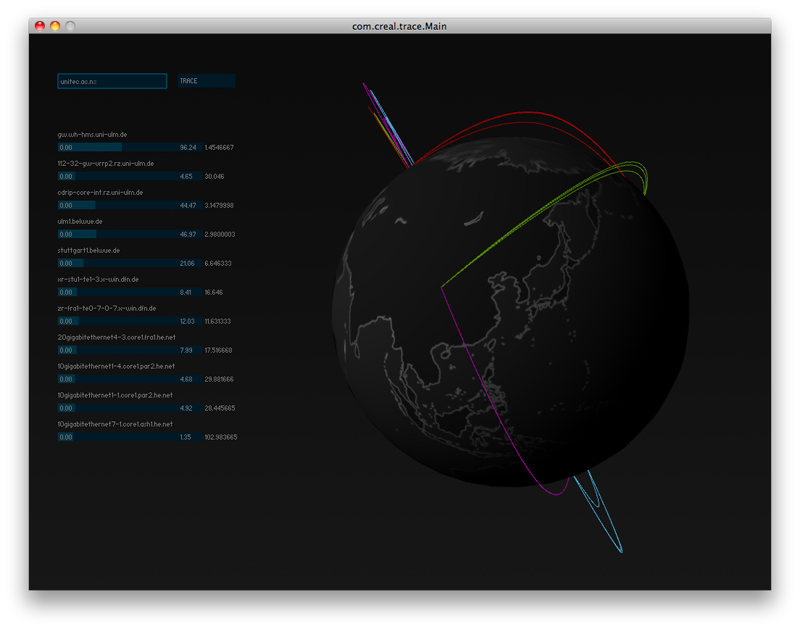
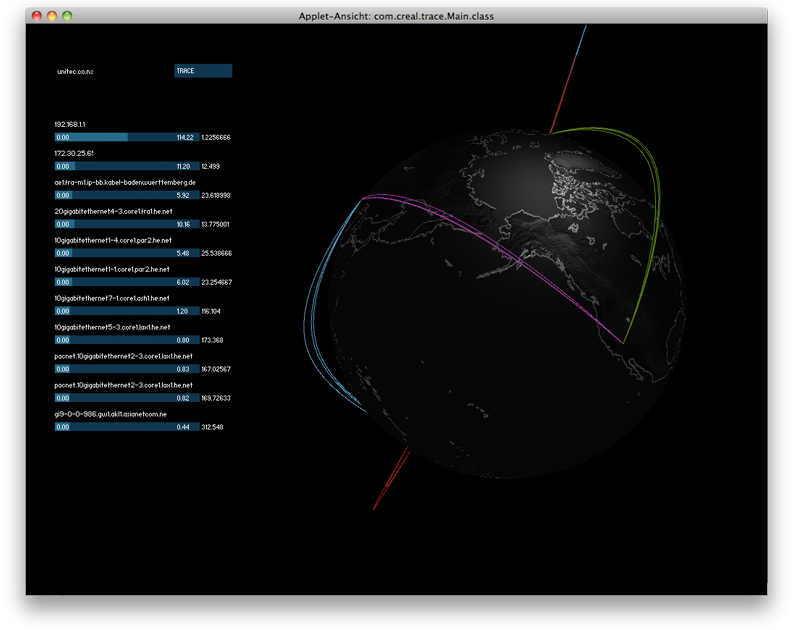
updated readme & screenshot

diff --git a/README.md b/README.md
@@ -2,7 +2,7 @@
 
 This is a graphical frontend for the Unix `traceroute` utility.
 
-Written using the Processing API. Also used: toxiclibs and controlP5.
+Written using the Processing API. Also used: GLGarphics, toxiclibs and controlP5.
 
 It should work under all Unix systems.
 
@@ -22,8 +22,12 @@ Uploaded a short video to [http://vimeo.com/26674070](Vimeo).
 
 # Project Status?
 
-Work in progress!
-Still some bugs and I want to beautify it.
+Some bugs left and I want to resolve the `dig` dependency.
+
+
+# Maps
+
+The textures are taken from the [http://visibleearth.nasa.gov/view_set.php?categoryId=2363&p=1](NASA's Blue Marble project). 
 
 
 # GeoIP
